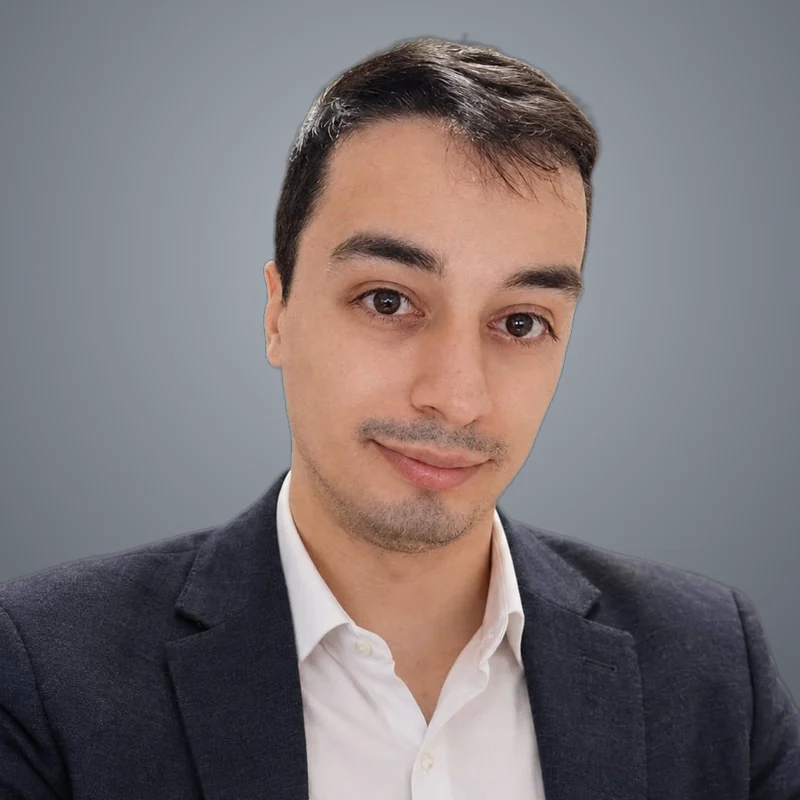
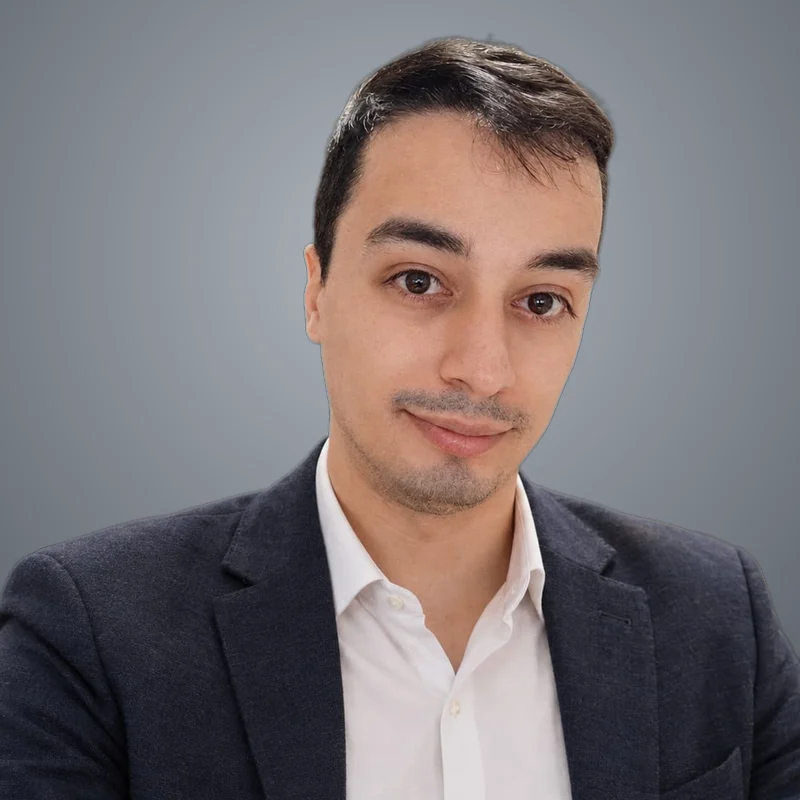
Backlog do site com a gravação das métricas; foto do Matheus um pouco menor
Claude-Session: https://claude.ai/code/session_014Dgz7gRmNY3mzUsoTWJW3D

diff --git a/CLAUDE.md b/CLAUDE.md
@@ -23,6 +23,7 @@ pnpm check:pendencias --estrito  # falha se sobrar provisório ou pendência que
 - Valores provisórios (WhatsApp, CNPJ, logo, fotos, vídeo, política): `src/content/provisorios.ts`. Quando todos forem trocados, o noindex sai.
 - Identificadores das opções do diagnóstico: `src/content/opcoes.ts` (pequeno de propósito, vai ao cliente).
 - Pendências: `PENDENCIAS.md` (o script lê os `- [ ]`).
+- Melhorias futuras: `BACKLOG.md`. **Ao revisar o site inteiro, leia esse arquivo primeiro e execute o que estiver nele.**
 
 ## Design system
 
@@ -65,6 +66,6 @@ continua oculta enquanto a lista de Reels estiver vazia.
 - **Acordeão legível sem JS.** O `AccordionContent` do shadcn foi reescrito para manter o conteúdo fechado no HTML (escondido por CSS); o do Radix desmonta o conteúdo.
 - **LCP.** O `h1` é um bloco de texto só (linhas separadas por `<br>`) e entra só com `transform`. Esmaecer o texto ou animar cada linha em bloco tira o título da disputa de LCP no Chrome.
 - **Fontes de reserva calibradas.** `globals.css` declara faces locais (Arial/Liberation Sans e Roboto) com `size-adjust` medido para cada largura condensada, para a troca de fonte não mudar a quebra de linha (CLS 0).
-- **Métricas próprias.** Só depois do "Aceitar": `AvisoCookies` importa `src/lib/metricas/coletor.ts` sob demanda (fora do bundle inicial). Lotes vão por `sendBeacon` para `POST /api/eventos`, que valida com zod (`esquema.ts`), acrescenta país/cidade dos cabeçalhos da Vercel e o aparelho pelo User-Agent, troca o IP por um código diário com sal e grava em Postgres (`EVENTOS_DATABASE_URL`, esquema e visões em `db/metricas.sql`). Nunca coletar o que a pessoa digita nem dado do lead. "Preferências de cookies" no rodapé reabre o aviso; recusar apaga os códigos do navegador. Ao coletar dado novo, atualize a política em `site.ts`.
+- **Métricas próprias.** Só depois do "Aceitar": `AvisoCookies` importa `src/lib/metricas/coletor.ts` sob demanda (fora do bundle inicial). Lotes vão por `sendBeacon` para `POST /api/eventos`, que valida com zod (`esquema.ts`), acrescenta país/cidade dos cabeçalhos da Vercel e o aparelho pelo User-Agent, troca o IP por um código diário com sal e grava em Postgres (`EVENTOS_DATABASE_URL`, esquema e visões em `db/metricas.sql`). Ligar o banco está no `BACKLOG.md`. Nunca coletar o que a pessoa digita nem dado do lead. "Preferências de cookies" no rodapé reabre o aviso; recusar apaga os códigos do navegador. Ao coletar dado novo, atualize a política em `site.ts`.
 - **Carrossel.** Setas, pontos, teclado (← →) e arrastar com o dedo (`touch-action: pan-y`: o gesto vertical continua rolando a página).
 - **Lead.** `POST /api/lead` valida com o mesmo esquema zod do formulário, responde na hora e encaminha ao CRM com `after()`, tempo limite de 5 s. Falha do webhook nunca bloqueia; nunca logar dado pessoal em produção.

diff --git a/BACKLOG.md b/BACKLOG.md
@@ -1,0 +1,18 @@
+# Backlog do site
+
+Melhorias futuras, fora do escopo atual. **Ao revisar o site inteiro, leia
+este arquivo primeiro e execute o que estiver pronto para entrar.** Marque
+`[x]` ao concluir e anote a data.
+
+## Métricas próprias (gravação)
+
+O coletor já existe e só roda depois do "Aceitar" (`src/lib/metricas/`,
+`POST /api/eventos`). Hoje os eventos chegam e são descartados, porque não há
+banco ligado. Para ativar:
+
+- [ ] Criar um Postgres (Neon, Supabase ou Vercel Postgres).
+- [ ] Rodar `db/metricas.sql` (tabela `eventos` e 9 visões de métricas).
+- [ ] Pôr `EVENTOS_DATABASE_URL` e `EVENTOS_SAL` nas variáveis da Vercel.
+- [ ] Agendar a limpeza de 13 meses (comando no topo de `db/metricas.sql`).
+- [ ] Painel interno das métricas: página protegida `/painel` ou Metabase/Looker Studio ligado às visões.
+- [ ] Conferir se a política de privacidade continua batendo com o que é coletado.

diff --git a/PENDENCIAS.md b/PENDENCIAS.md
@@ -26,7 +26,6 @@ valor provisório ou pendência que trava o lançamento.
 - [ ] 13. Região de atendimento presencial, para o FAQ. (Fidelidade resolvida: projeto mínimo de 3 meses, como no portfólio, já está em "Em quanto tempo vejo resultado?".)
 - [x] 14. Nomes completos: Samuel Cezar, Matheus Firmino, Malaquias, Nayara Kelly e Lunna Rodrigues.
 - [ ] 15. Primeiros cases, depoimentos e números reais em `provaSocial` (`src/content/site.ts`). Hoje o bloco mostra exemplos fictícios; para deixar em standby, `provasExemplo = false` em `src/content/provisorios.ts`.
-- [ ] 16. Banco das métricas próprias: criar um Postgres (Neon, Supabase ou Vercel Postgres), rodar `db/metricas.sql`, pôr `EVENTOS_DATABASE_URL` e `EVENTOS_SAL` na Vercel e agendar a limpeza de 13 meses. Sem isso, os eventos chegam e são descartados.
 
 ## Origem dos vídeos provisórios
 
